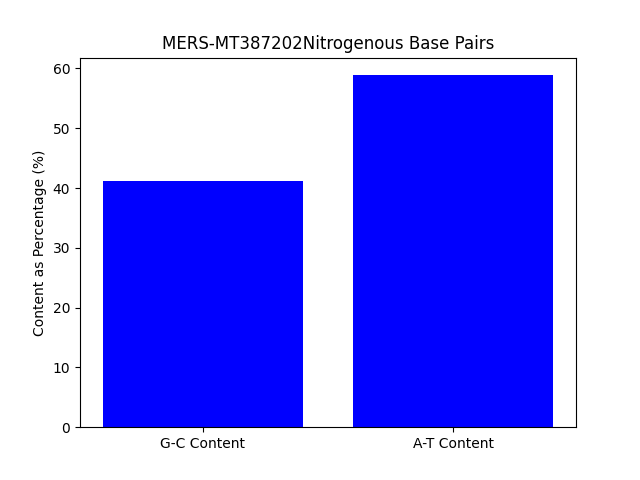
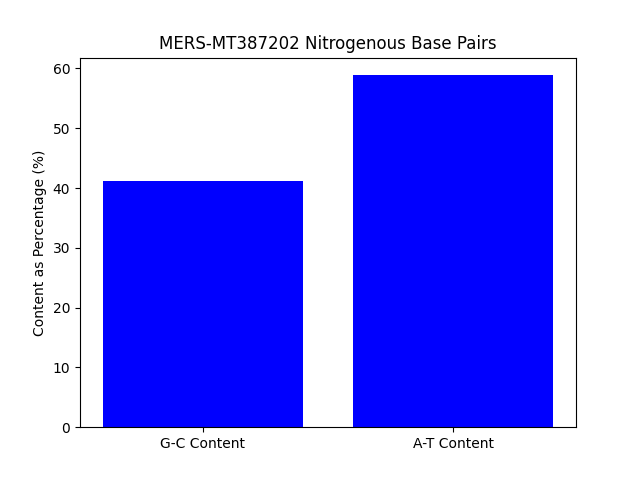
'bases' parameter in main.py removed. Now a constant in Nucleotides.py. Concise and automatic changes

Changed region(s): [[0.25, 0.0625, 0.7812, 0.125]]

diff --git a/Nucleotides.py b/Nucleotides.py
@@ -3,37 +3,36 @@ import numpy as np
 import StandardFunctions as sf
 
 # Constants - appropriate referencing (e.g. iteration, print, file name, visual)
-BASE = {"A": "Adenine", "C": "Cytosine", "G": "Guanine", "T": "Thymine"}
+BASE = ['A', 'C', 'G', 'T']  # Nitrogenous Bases
+BASE_NAME = {"A": "Adenine", "C": "Cytosine", "G": "Guanine", "T": "Thymine"}
 POLYNUCLEOTIDE = {1: "Nucleotide", 2: "Dinucleotide", 3: "Trinucleotide", 4: "Tetranucleotide", 5: "Pentanucleotide"}
 POLYMER = {1: "monomers", 2: "dimers", 3: "trimers", 4: "tetramers", 5: "pentamers"}  # lower-case for file names
 COLOUR_MAP = ["red", "green", "blue", "yellow", "purple"]
 
 
-def base_combinations(bases, polymer_length):
-    """Memory Efficient by calling upon recursive method.
+def base_combinations(polymer_length):
+    """Accumulator method for invoking recursive method (memory efficiency).
     Exception Handling: ensures at least dimers are passed.
 
-    :param list bases: chemicals in DNA, each represented as a char
     :param int polymer_length: length of all polymer instances (e.g. 2 - dimers)
     :return list combinations: all possible polymers, each of a given 'polymer_length'
     """
-    if polymer_length <= 1 or not (isinstance(polymer_length, int)):  # checks whole number above 1
+    if polymer_length <= 1 or not (isinstance(polymer_length, int)):  # checks whole number is above 1
         print("Warning in Nucleotides.py: must pass a positive whole number >= 2")
         return
 
-    combinations = []  # Appended by basesCombinationRecursive(), externally
-    base_combinations_recursive(bases, "", polymer_length, combinations)
+    combinations = []  # Appended to by bases_combination_recursive(), externally
+    base_combinations_recursive("", polymer_length, combinations)
 
     return combinations
 
 
-def base_combinations_recursive(bases, polymer, polymer_length, combinations):
+def base_combinations_recursive(polymer, polymer_length, combinations):
     """Generates all possible polymers possible, each of a 'polymer_length'.
     Each recursion, we append a complete 'polymer' to 'combinations'.
     We pass 'combinations' back to 'base_combinations()' and drop the Stack.
     Stack does not need to be unravelled, once threshold is met, per iteration.
 
-    :param list bases: chemicals in DNA, each represented as a char
     :param str polymer: an instance of a base combination passed to next recursion and appended to 'combinations'; initially blank ("")
     :param int polymer_length: length of all polymer instances (e.g. 2 - dimers)
     :param list combinations: all possible polymers, each of a given 'polymer_length'
@@ -46,28 +45,27 @@ def base_combinations_recursive(bases, polymer, polymer_length, combinations):
         return  # continue back to previous recursion's active for loop iteration
 
     # Starting with all that begin with 'A' ...
-    for i in range(len(bases)):
+    for i in range(len(BASE)):
         # Next Base appended
-        new_polymer = polymer + bases[i]  # we build upon a new instance
-        base_combinations_recursive(bases, new_polymer, (polymer_length - 1), combinations)
+        new_polymer = polymer + BASE[i]  # we build upon a new instance
+        base_combinations_recursive(new_polymer, (polymer_length - 1), combinations)
 
     return combinations
 
 
-def base_content(base_combinations, genome):
+def base_content(genome):
     """Calculates the composition of each polymer, from 'base_combination', in a given genome as a %.
 
-    :param list base_combinations: holds 'base_combinations()' output array, x axis
     :param dict genome: dictionary containing: 'name', 'description' & 'sequence' of genome (Coronaviridae.py - .fasta/.fna file)
     """
     print("\n-- " + genome['name'] + " --")  # name
     print(genome['description'])
     print(genome['sequence'])
 
-    for n in base_combinations:
+    for n in BASE:
         n_count = genome['sequence'].count(n)
         n_comp = round(n_count / len(genome['sequence']) * 100, 2)
-        print(BASE[n] + " Composition: " + str(n_comp) + "%")
+        print(BASE_NAME[n] + " Composition: " + str(n_comp) + "%")
 
     bases_content_plot(genome['name'], genome['sequence'])
 
@@ -86,7 +84,7 @@ def bases_content_plot(name, sequence):
     # ratio = (sequence.count("A") + sequence.count("T")) / (sequence.count("G") + sequence.count("C"))
 
     # Plot
-    plt.title(name + "Nitrogenous Base Pairs")
+    plt.title(name + " Nitrogenous Base Pairs")
     plt.ylabel("Content as Percentage (%)")
     x = ["G-C Content", "A-T Content"]
     y = [gc, at]

diff --git a/main.py b/main.py
@@ -6,9 +6,6 @@ import PairwiseSequencing
 import Alignment
 import MultipleSequenceAlignment
 
-# Nitrogenous Bases - of interest (dynamic for specified analyses)
-bases = ['A', 'C', 'G', 'T']  # Adenine, Cytosine, Guanine, Thymine
-
 
 """ Import Genomes """
 # Genomes
@@ -24,16 +21,16 @@ SARS = coronaviridae[2]
 
 """ Nucleotide Composition """
 # AT/GC Content
-#Nucleotides.base_content(bases, MERS)  # MERS
-#Nucleotides.base_content(bases, SARS)  # SARS
-#Nucleotides.base_content(bases, SARSCoV2)  # SARSCoV2
+Nucleotides.base_content(MERS)  # MERS
+Nucleotides.base_content(SARS)  # SARS
+Nucleotides.base_content(SARSCoV2)  # SARSCoV2
 
 # Polymer Bases Combinations
-#dimers = Nucleotides.base_combinations(bases, 2)  # dinucleotide
-#trimers = Nucleotides.base_combinations(bases, 3)  # trinucleotide
-#tetramers = Nucleotides.base_combinations(bases, 4)  # tetranucledotide
+dimers = Nucleotides.base_combinations(2)  # dinucleotide
+#trimers = Nucleotides.base_combinations(3)  # trinucleotide
+#tetramers = Nucleotides.base_combinations(4)  # tetranucledotide
 
-#diComp = Nucleotides.composition_comparison(dimers, MERS, SARS, SARSCoV2)
+diComp = Nucleotides.composition_comparison(dimers, MERS, SARS, SARSCoV2)
 #triComp = Nucleotides.composition_comparison(trimers, MERS, SARS, SARSCoV2)
 #tetraComp = Nucleotides.composition_comparison(tetramers, MERS, SARS, SARSCoV2)
 
@@ -49,13 +46,13 @@ SARS = coronaviridae[2]
 
 
 """ Pairwise Sequencing """
-PairwiseSequencing.run("DNA", MERS, SARS)
-PairwiseSequencing.run("DNA", MERS, SARSCoV2)
-PairwiseSequencing.run("DNA", SARS, SARSCoV2)
+#PairwiseSequencing.run("DNA", MERS, SARS)
+#PairwiseSequencing.run("DNA", MERS, SARSCoV2)
+#PairwiseSequencing.run("DNA", SARS, SARSCoV2)
 
-PairwiseSequencing.run("Protein", MERS, SARS)
-PairwiseSequencing.run("Protein", MERS, SARSCoV2)
-PairwiseSequencing.run("Protein", SARS, SARSCoV2)
+#PairwiseSequencing.run("Protein", MERS, SARS)
+#PairwiseSequencing.run("Protein", MERS, SARSCoV2)
+#PairwiseSequencing.run("Protein", SARS, SARSCoV2)
 
 
 """ Alignment Files """
